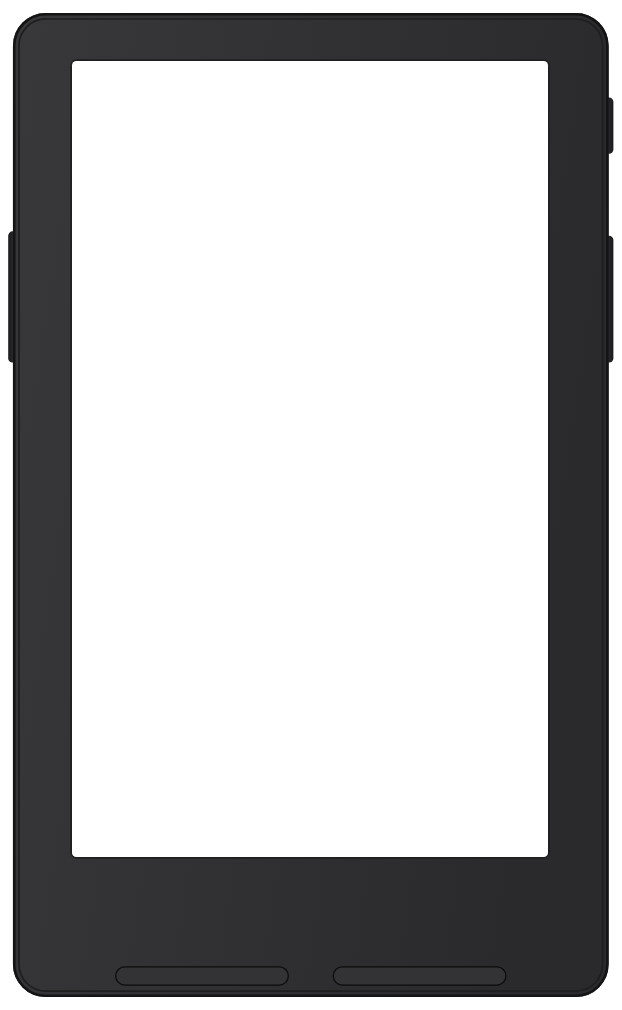
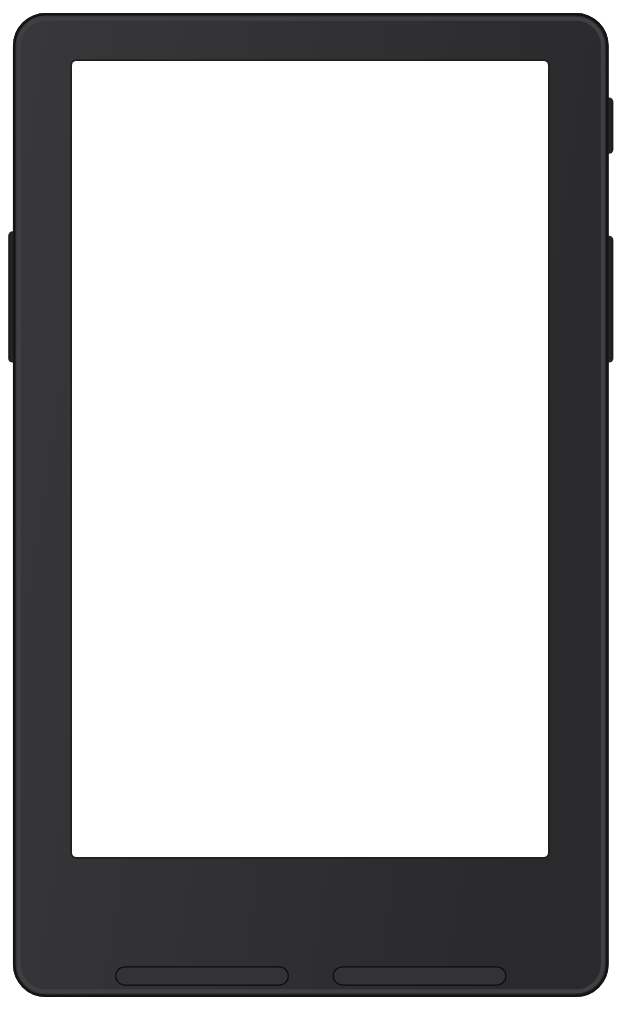
Same design for all three readers (thin dark edge with a light lip, no near-black band on the X4 Pro); one drawings picture in the README; publish a build report with every failure; app 1.2.2
Claude-Session: https://claude.ai/code/session_017xrLS5EUsNn3uv8jvV4W62

Changed region(s): [[0.9469, 0.0307, 0.9775, 0.9822]]

diff --git a/device-frames/tools/gen.py b/device-frames/tools/gen.py
@@ -43,14 +43,12 @@ BODY_COLOURS = dict(face=("#38383a", "#2a2a2c"), face_dir=(1, .25), keys=("#1a1a
                     seam_path="#19191a", home=("#404043", "#343437"))
 for _m in MODELS.values():
     _l, _c = _m["look"], BODY_COLOURS
+    # the same rim on every reader: a thin dark edge with a light lip inside it (the X4 Pro's band was 0.8 mm and
+    # near black, the X4 Classic had a dark line instead of the lip)
     _l.update(face=_c["face"], face_dir=_c["face_dir"], keys=_c["keys"], well=_c["well"],
-              edge=(_c["edge"],) + _l["edge"][1:])
+              edge=(_c["edge"], 0.3), lip=(_c["lip"], 0.45, 0.9), seam=None)
     if _l.get("bar"):
         _l["bar"] = _c["bar"]
-    if _l.get("lip"):
-        _l["lip"] = (_c["lip"],) + _l["lip"][1:]
-    if _l.get("seam"):
-        _l["seam"] = (_c["seam"],) + _l["seam"][1:]
     if _l.get("seam_path"):
         _l["seam_path"] = dict(_l["seam_path"], color=_c["seam_path"])
     if _l.get("home"):

diff --git a/README.md b/README.md
@@ -134,11 +134,9 @@ public issue.
 | [`samples/`](samples/) | Books and dictionary placed on every new simulated SD card |
 | [`.github/workflows/`](.github/workflows/) | Builds, tests and releases |
 
-The device drawings are original artwork made from the readers' official dimensions:
+The device drawings are original artwork made from the readers' official dimensions (X4 Pro, X4 Classic, X3):
 
-| X4 Pro | X4 Classic | X3 |
-| :---: | :---: | :---: |
-| <img src="docs/x4-pro-v3.png" alt="X4 Pro drawing" width="200"> | <img src="docs/x4-classic-v3.png" alt="X4 Classic drawing" width="200"> | <img src="docs/x3-v3.png" alt="X3 drawing" width="200"> |
+<p align="center"><img src="docs/devices.png" alt="Drawings of the X4 Pro, X4 Classic and X3" width="640"></p>
 
 ## Contributing
 
